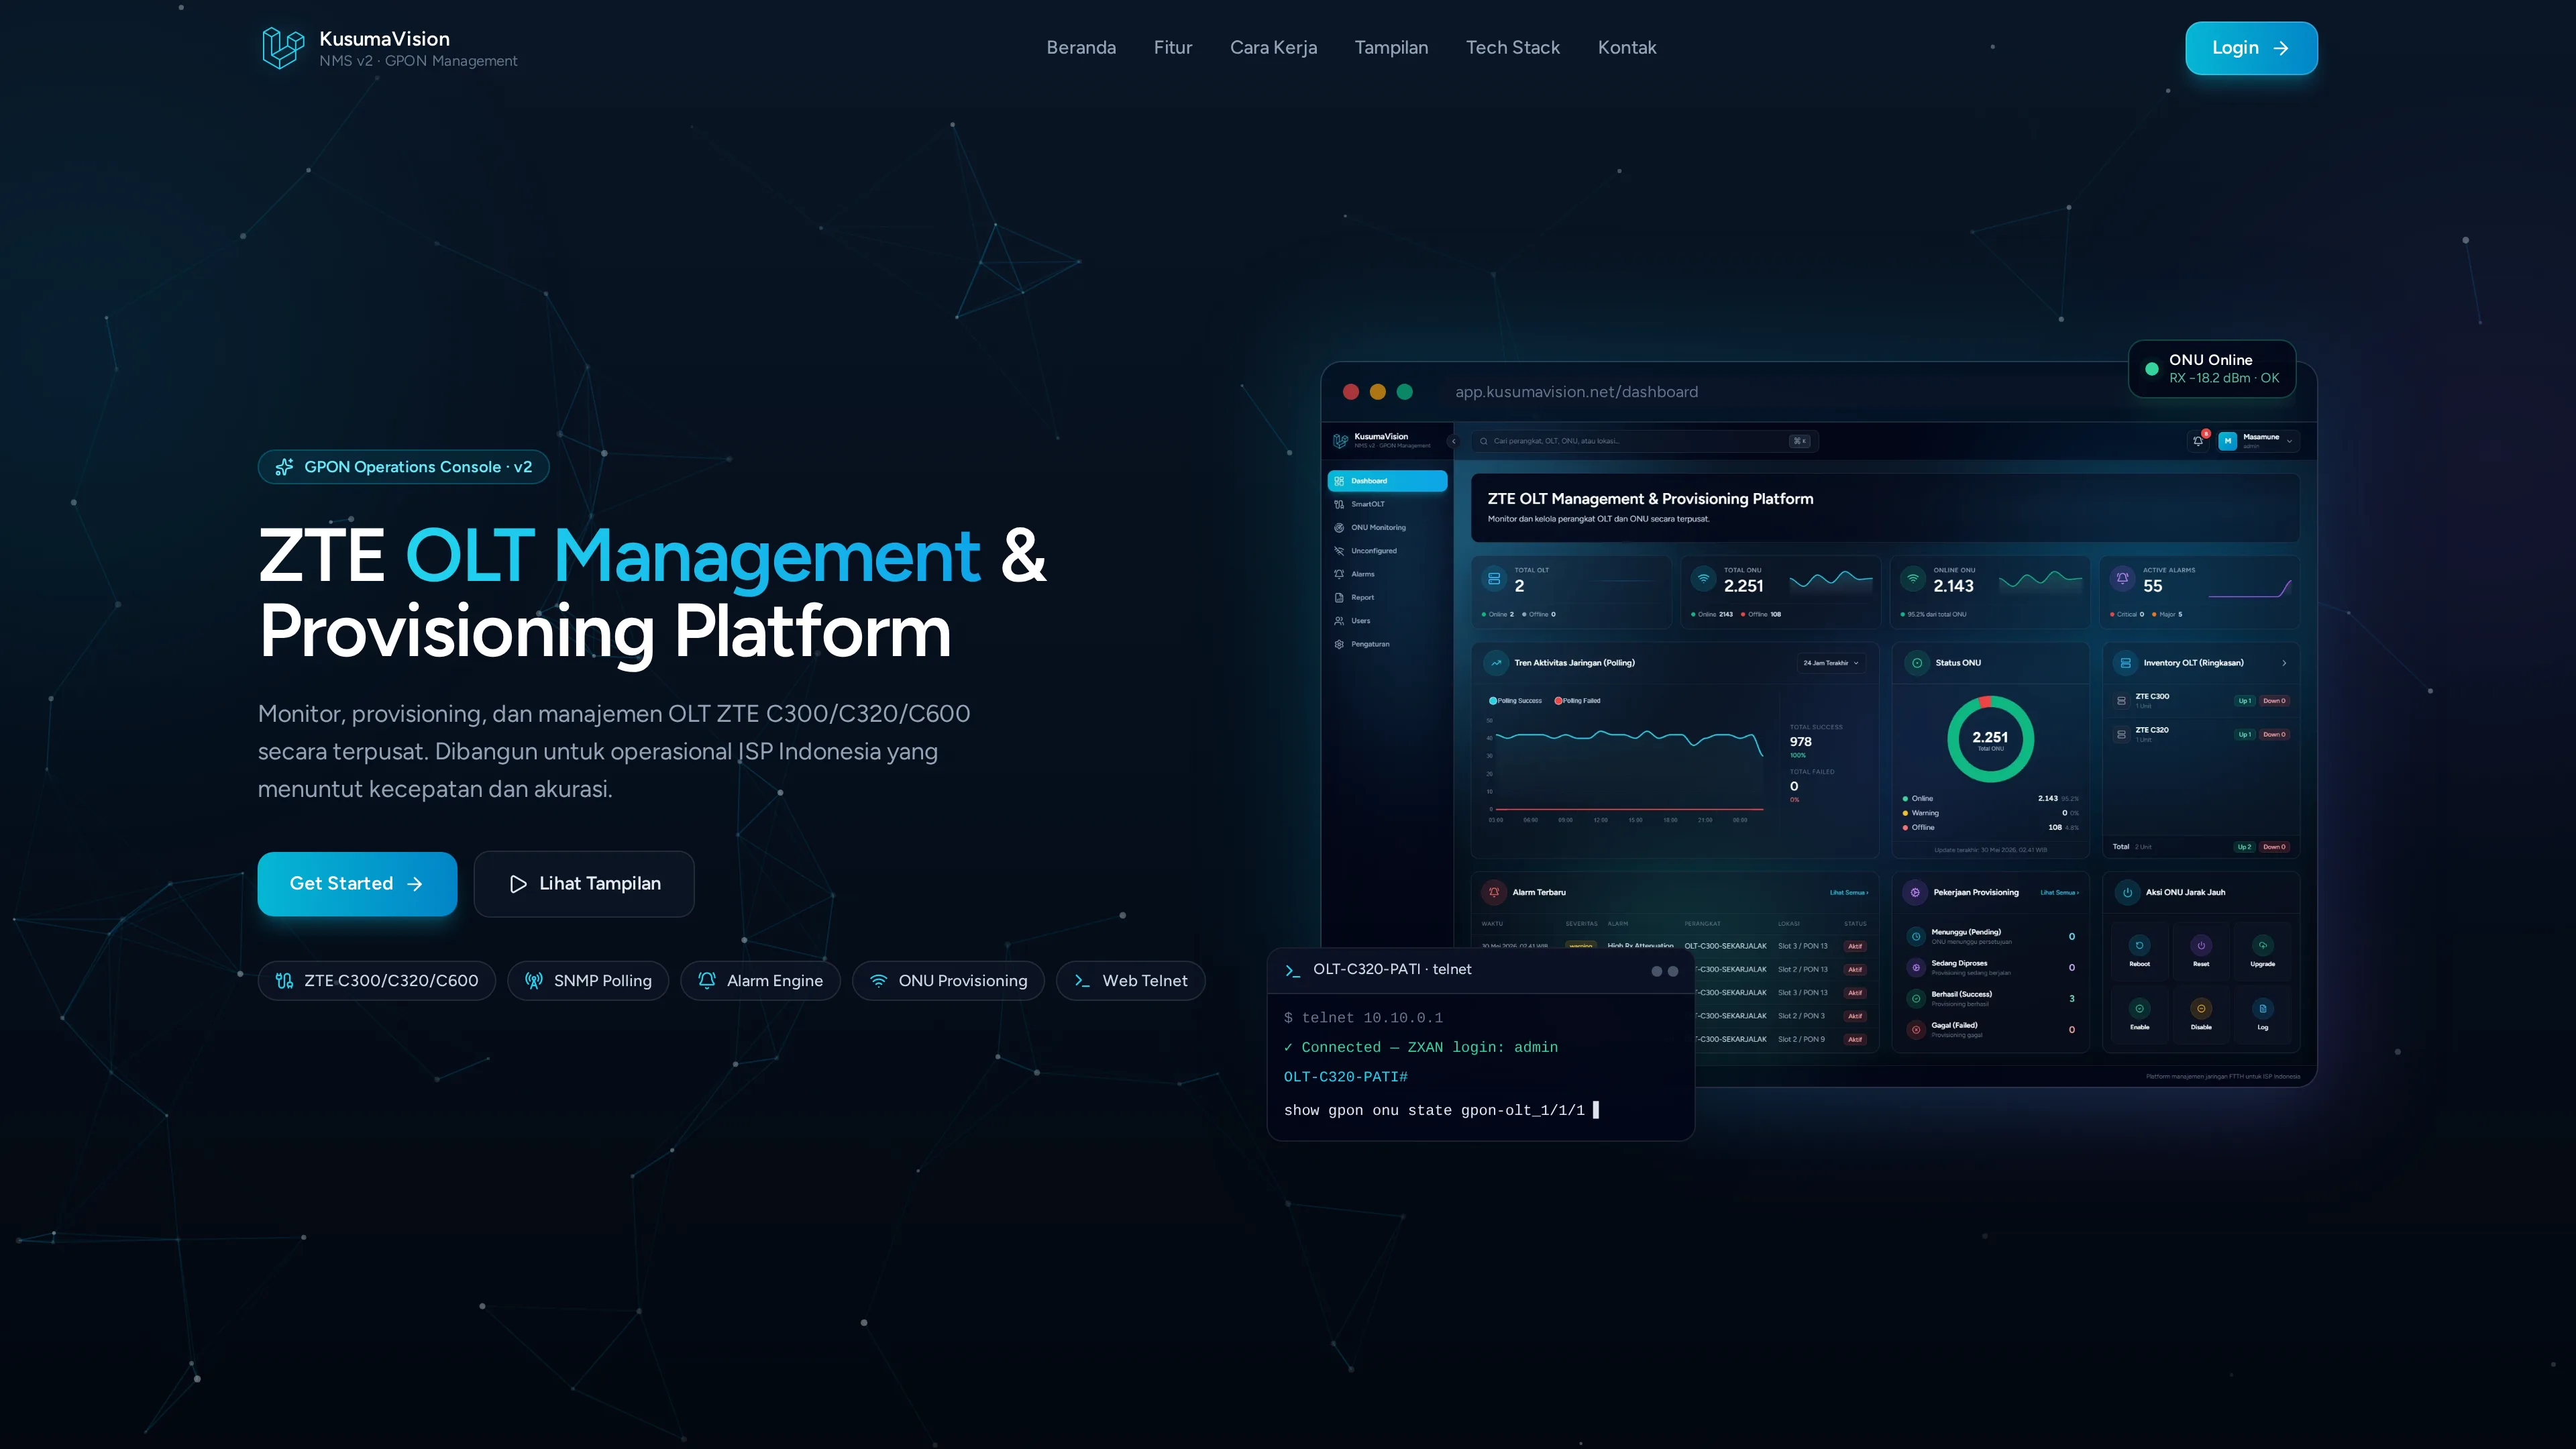
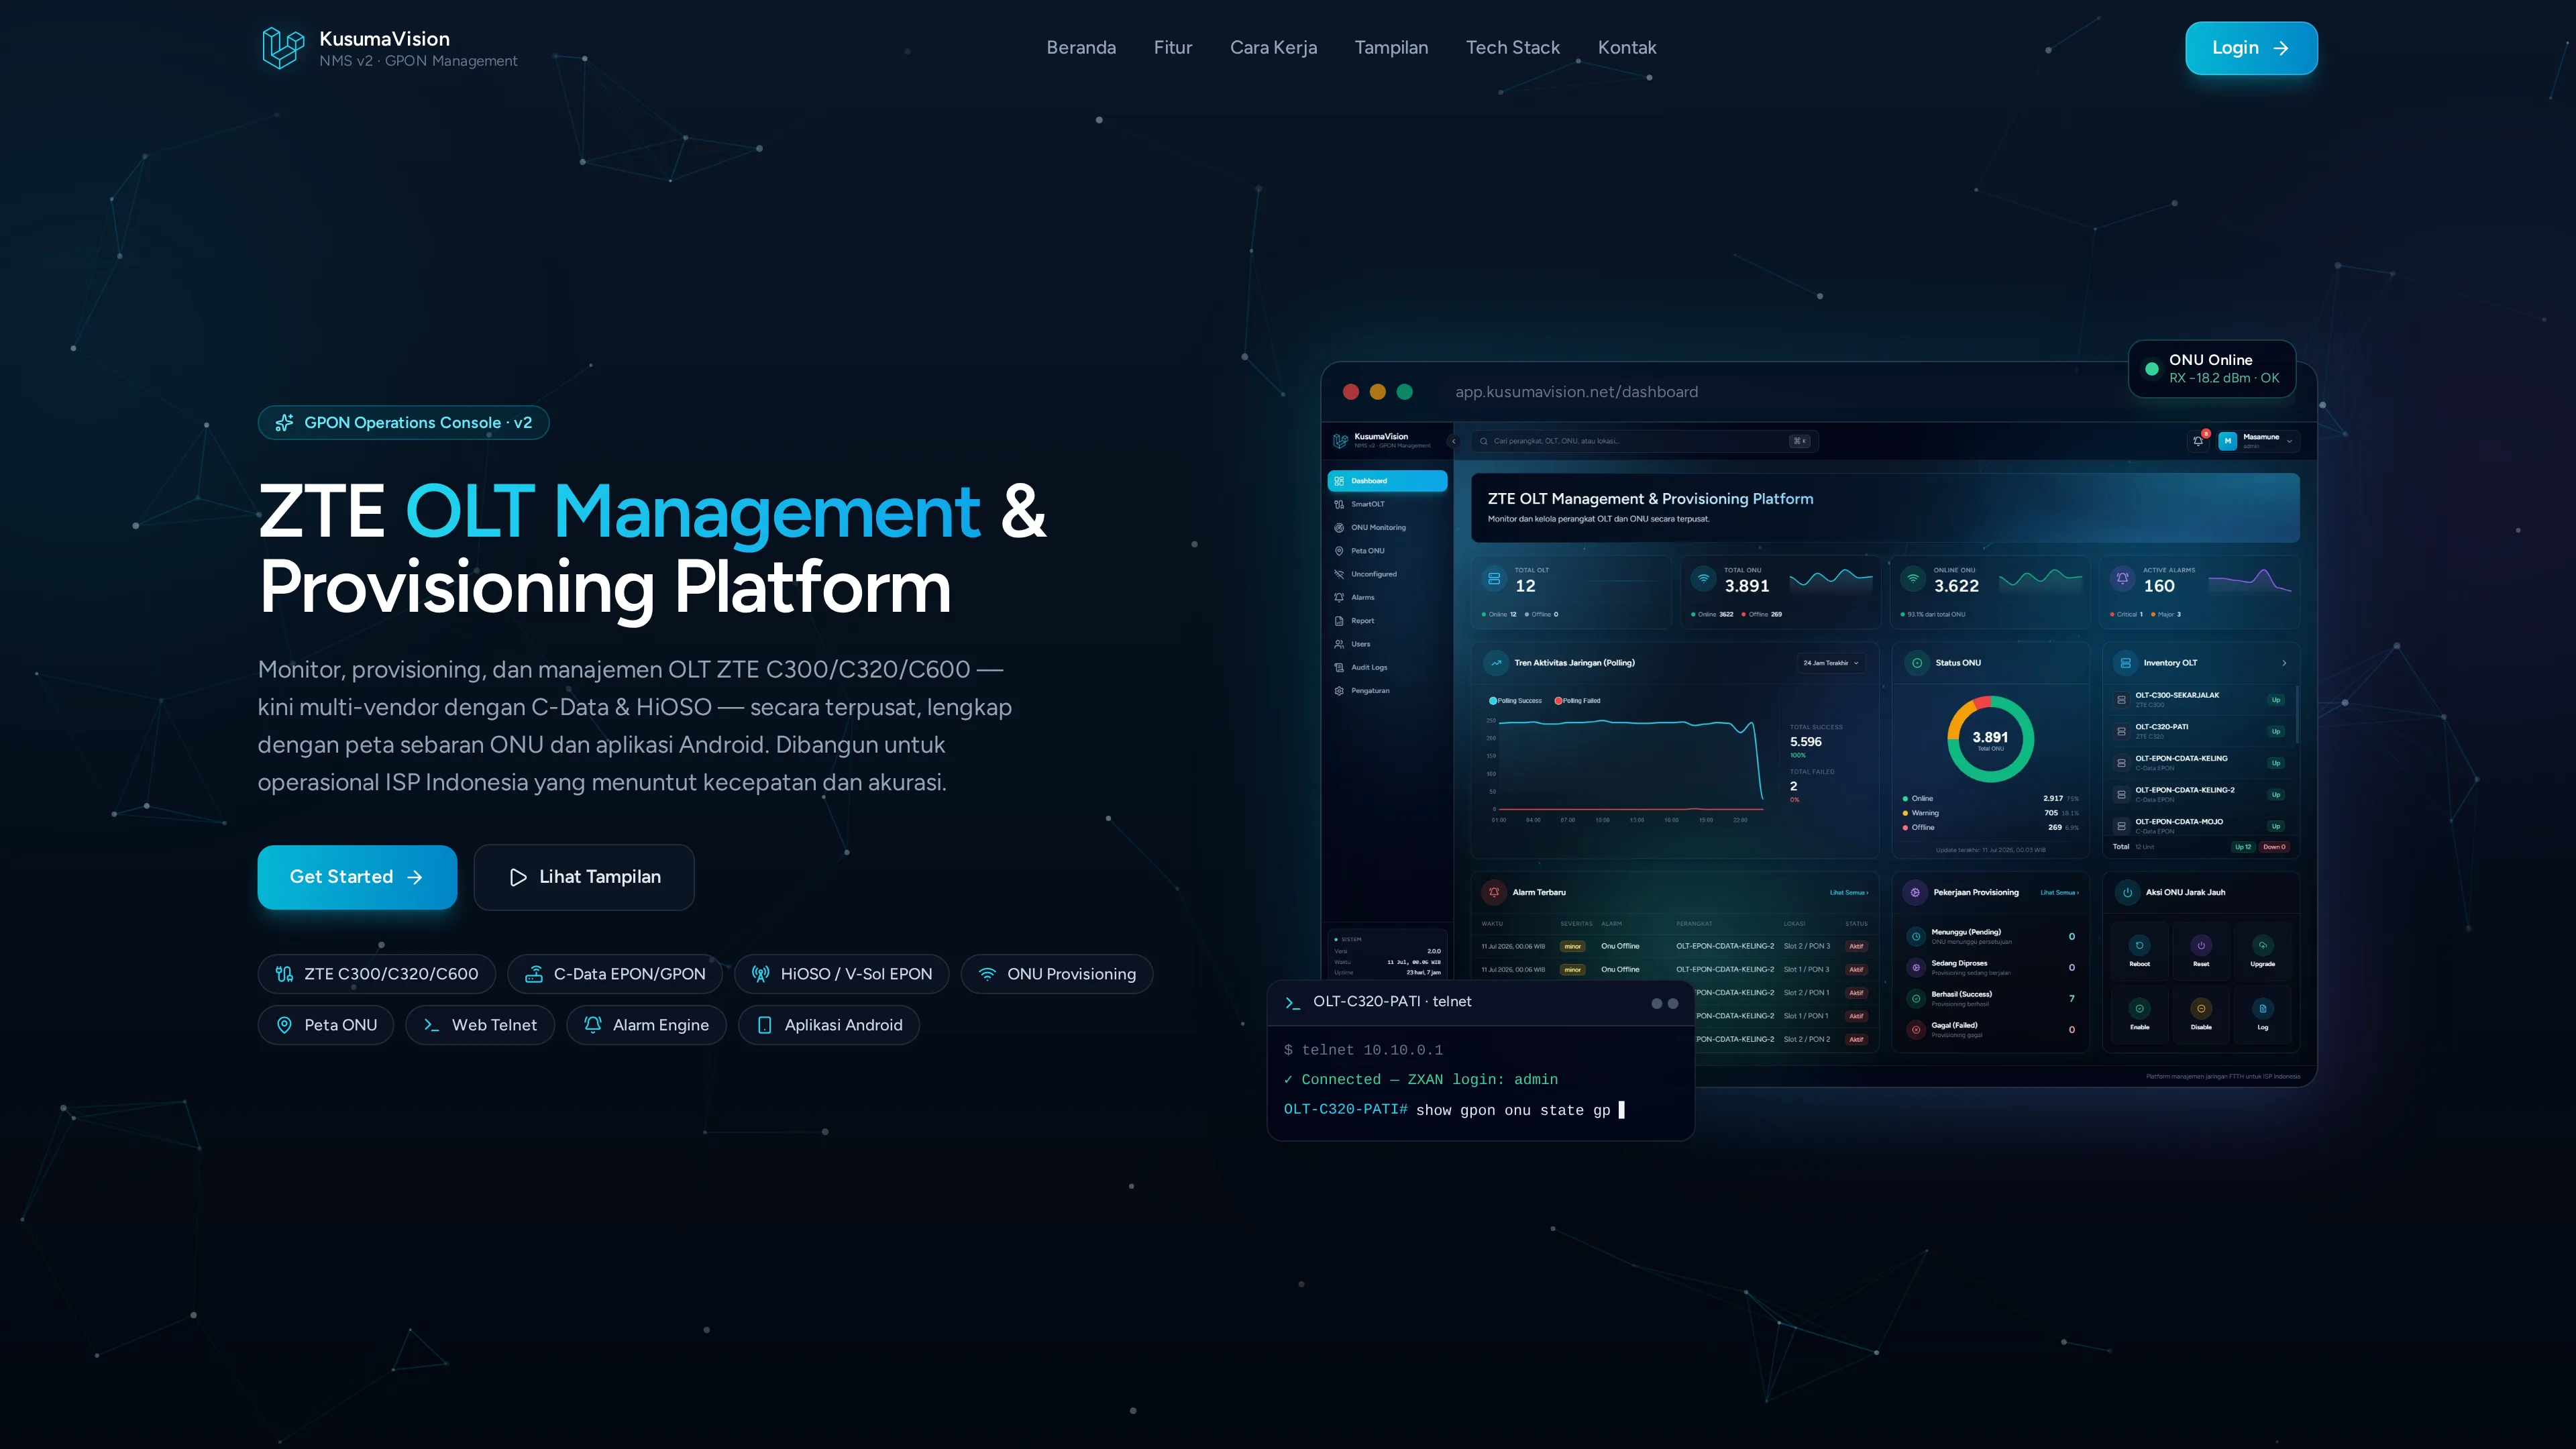
ui: refresh Welcome — new features, multi-vendor tech stack, Telegram group
Surface newer capabilities on the landing (multi-vendor OLT incl. HiOSO,
Peta ONU, Android app, TR-069 massal, push FCM) and add Tailwind + Flutter
logos to the tech strip. Replace the phone contact with the
KusumaVisionNMS-Share Telegram group (footer item + Hubungi Kami CTA).
Regenerate the stale welcome.webp screenshot and expand the README
screenshot gallery + Stack Teknologi table (Leaflet, Flutter, FCM).

diff --git a/resources/js/Pages/Welcome.vue b/resources/js/Pages/Welcome.vue
@@ -18,7 +18,6 @@ import {
     MapPin,
     Menu,
     MonitorPlay,
-    Phone,
     Play,
     Radar,
     RadioTower,
@@ -28,6 +27,7 @@ import {
     Send,
     Server,
     ShieldCheck,
+    Smartphone,
     Sparkles,
     Terminal,
     Wifi,
@@ -165,17 +165,19 @@ const navLinks = [
 const heroPills = [
     { icon: Cable, label: 'ZTE C300/C320/C600' },
     { icon: Router, label: 'C-Data EPON/GPON' },
-    { icon: RadioTower, label: 'SNMP Polling' },
-    { icon: BellRing, label: 'Alarm Engine' },
+    { icon: RadioTower, label: 'HiOSO / V-Sol EPON' },
     { icon: Wifi, label: 'ONU Provisioning' },
+    { icon: MapPin, label: 'Peta ONU' },
     { icon: Terminal, label: 'Web Telnet' },
+    { icon: BellRing, label: 'Alarm Engine' },
+    { icon: Smartphone, label: 'Aplikasi Android' },
 ];
 
 const stats = [
-    { value: 3, suffix: '', label: 'Seri OLT ZTE', sub: 'C300 · C320 · C600', icon: Cable, circle: 'kv-circle-sky' },
-    { value: 12, suffix: '+', label: 'Modul Operasional', sub: 'Monitoring → provisioning', icon: Boxes, circle: 'kv-circle-cyan' },
-    { value: 24, suffix: '/7', label: 'Monitoring Jaringan', sub: 'Alarm & Telegram realtime', icon: Activity, circle: 'kv-circle-emerald' },
-    { value: 100, suffix: '%', label: 'Berbasis Web', sub: 'Tanpa install aplikasi', icon: MonitorPlay, circle: 'kv-circle-purple' },
+    { value: 3, suffix: '', label: 'Vendor OLT Didukung', sub: 'ZTE · C-Data · HiOSO', icon: Router, circle: 'kv-circle-sky' },
+    { value: 14, suffix: '+', label: 'Modul Operasional', sub: 'Monitoring → provisioning', icon: Boxes, circle: 'kv-circle-cyan' },
+    { value: 24, suffix: '/7', label: 'Monitoring Jaringan', sub: 'Alarm · Telegram · Push FCM', icon: Activity, circle: 'kv-circle-emerald' },
+    { value: 100, suffix: '%', label: 'Web + Aplikasi Android', sub: 'Dashboard web & app mobile', icon: MonitorPlay, circle: 'kv-circle-purple' },
 ];
 const displayStats = ref(stats.map((s) => ({ ...s, current: 0 })));
 
@@ -211,8 +213,22 @@ const features = [
         icon: Router,
         accent: 'kv-circle-cyan',
         badge: 'Baru',
-        title: 'OLT C-Data EPON/GPON',
-        body: 'Dukungan multi-vendor: kelola OLT C-Data EPON & GPON berdampingan dengan ZTE — monitoring ONU lintas-OLT, plus rename & reboot ONU langsung dari dashboard.',
+        title: 'Multi-Vendor OLT',
+        body: 'Kelola OLT ZTE, C-Data (EPON & GPON), dan HiOSO / V-Sol EPON berdampingan dalam satu dashboard — monitoring ONU lintas-OLT, plus rename, reboot & delete ONU langsung dari dashboard.',
+    },
+    {
+        icon: MapPin,
+        accent: 'kv-circle-emerald',
+        badge: 'Baru',
+        title: 'Peta ONU',
+        body: 'Petakan sebaran pelanggan/ONU lintas OLT di peta interaktif — tambah pin dari klik peta atau link Google Maps, lengkap dengan reboot & rename ONU langsung dari titik pelanggan.',
+    },
+    {
+        icon: Smartphone,
+        accent: 'kv-circle-purple',
+        badge: 'Baru',
+        title: 'Aplikasi Android',
+        body: 'Aplikasi mobile Android untuk pantau OLT & ONU, registrasi, reboot/rename, sampai push notification alarm real-time via Firebase — NOC tetap terhubung dari mana saja.',
     },
     {
         icon: Database,
@@ -230,7 +246,7 @@ const features = [
         icon: Workflow,
         accent: 'kv-circle-purple',
         title: 'Provisioning ONU',
-        body: 'Generate CLI script provisioning ZTE (register, T-CONT, VLAN, PPPoE/DHCP/Static, TR-069) lalu eksekusi via Telnet.',
+        body: 'Generate CLI script provisioning ZTE (register, T-CONT, VLAN, PPPoE/DHCP/Static/Bridge, TR-069) lalu eksekusi via Telnet — plus TR-069 massal per-port & salin konfigurasi ONU antar port.',
     },
     {
         icon: Gauge,
@@ -271,8 +287,8 @@ const features = [
     {
         icon: Send,
         accent: 'kv-circle-cyan',
-        title: 'Notifikasi Telegram',
-        body: 'Alarm penting dikirim ke grup/chat Telegram, plus bot interaktif (menu tombol): cek status OLT & ONU, cari pelanggan, sampai refresh OLT C-Data dari mana saja.',
+        title: 'Notifikasi Telegram & Push',
+        body: 'Alarm penting dikirim ke grup/chat Telegram & push notification ke aplikasi Android, plus bot interaktif (menu tombol): cek status OLT & ONU, cari pelanggan, sampai refresh OLT dari mana saja.',
     },
     {
         icon: ScrollText,
@@ -283,8 +299,8 @@ const features = [
     {
         icon: ShieldCheck,
         accent: 'kv-circle-amber',
-        title: 'Role-based Access',
-        body: 'Pemisahan hak akses admin dan operator NOC — fitur sensitif seperti audit log & pengaturan sistem hanya untuk admin.',
+        title: 'Role-based & Multi-Tenant',
+        body: 'Pemisahan hak akses admin, operator NOC, dan partner — partner hanya melihat & mengelola OLT privat miliknya; fitur sensitif seperti audit log & pengaturan sistem tetap khusus admin.',
     },
 ];
 
@@ -298,14 +314,19 @@ const benefits = [
 
 // Kapabilitas untuk marquee berjalan (infinite scroll antar-section)
 const marqueeItems = [
-    'OLT C-Data EPON/GPON',
     'Multi-Vendor OLT',
+    'C-Data EPON/GPON',
+    'HiOSO / V-Sol EPON',
     'GPON Monitoring',
     'SNMP Polling',
     'ONU Provisioning',
+    'TR-069 Massal',
     'Alarm Engine',
     'Web Telnet',
     'RX Optical Power',
+    'Peta ONU',
+    'Aplikasi Android',
+    'Push Notification',
     'Remote ONU',
     'Telegram Alerts',
     'Audit Logs',
@@ -318,20 +339,24 @@ const techStack = [
     { name: 'Laravel 12', sub: 'PHP Framework', logo: '/img/tech/laravel.svg', glow: 'rgba(239, 68, 68, 0.25)' },
     { name: 'Vue 3', sub: 'Frontend SPA', logo: '/img/tech/vue.svg', glow: 'rgba(16, 185, 129, 0.25)' },
     { name: 'Inertia.js', sub: 'SPA Bridge', logo: '/img/tech/inertia.svg', glow: 'rgba(168, 85, 247, 0.25)' },
+    { name: 'Tailwind CSS', sub: 'UI Styling', logo: '/img/tech/tailwind.svg', glow: 'rgba(56, 189, 248, 0.25)' },
     { name: 'PostgreSQL', sub: 'Database', logo: '/img/tech/postgresql.svg', glow: 'rgba(110, 168, 249, 0.25)' },
     { name: 'Redis', sub: 'Cache & Queue', logo: '/img/tech/redis.svg', glow: 'rgba(239, 68, 68, 0.25)' },
     { name: 'Golang', sub: 'Polling Engine', logo: '/img/tech/go.svg', glow: 'rgba(34, 211, 238, 0.25)' },
+    { name: 'Flutter', sub: 'Aplikasi Android', logo: '/img/tech/flutter.svg', glow: 'rgba(71, 197, 251, 0.25)' },
 ];
 
 const modules = [
     { icon: LayoutDashboard, title: 'Dashboard', sub: 'Tampilan ringkas seluruh jaringan FTTH' },
     { icon: Server, title: 'OLT Inventory', sub: 'Detail perangkat & kartu line card' },
-    { icon: Router, title: 'OLT C-Data', sub: 'Monitoring EPON/GPON non-ZTE' },
+    { icon: Router, title: 'OLT C-Data & HiOSO', sub: 'Monitoring EPON/GPON non-ZTE' },
     { icon: BellRing, title: 'Alarm Center', sub: 'Pusat notifikasi & histori alarm' },
     { icon: Workflow, title: 'Provisioning', sub: 'Wizard registrasi ONU otomatis' },
     { icon: Radar, title: 'ONU Monitoring', sub: 'Pantau ONU lintas OLT & port' },
+    { icon: MapPin, title: 'Peta ONU', sub: 'Sebaran pelanggan di peta interaktif' },
     { icon: Terminal, title: 'Telnet Console', sub: 'CLI OLT langsung dari browser' },
     { icon: Database, title: 'Profiles', sub: 'Manajemen ONU type, T-CONT, VLAN' },
+    { icon: Smartphone, title: 'Aplikasi Android', sub: 'Pantau & kelola dari ponsel + push FCM' },
     { icon: FileBarChart, title: 'Reports', sub: 'Laporan statistik dan utilisasi' },
 ];
 
@@ -738,7 +763,7 @@ onBeforeUnmount(() => {
                             ZTE <span class="bg-gradient-to-r from-cyan-400 to-sky-500 bg-clip-text text-transparent">OLT Management</span> &amp; Provisioning Platform
                         </h1>
                         <p class="reveal-hero mt-5 max-w-xl text-base leading-7 text-slate-400 sm:text-lg" style="animation-delay: 0.19s">
-                            Monitor, provisioning, dan manajemen OLT ZTE C300/C320/C600 secara terpusat. Dibangun untuk operasional ISP Indonesia yang menuntut kecepatan dan akurasi.
+                            Monitor, provisioning, dan manajemen OLT ZTE C300/C320/C600 — kini multi-vendor dengan C-Data & HiOSO — secara terpusat, lengkap dengan peta sebaran ONU dan aplikasi Android. Dibangun untuk operasional ISP Indonesia yang menuntut kecepatan dan akurasi.
                         </p>
 
                         <!-- Hero CTAs -->
@@ -888,9 +913,9 @@ onBeforeUnmount(() => {
                         <div class="grid items-center gap-8 p-6 md:grid-cols-[1fr_auto] md:gap-12 md:p-10">
                             <div>
                                 <p class="text-xs font-semibold uppercase tracking-widest text-cyan-400">Multi-Vendor Hardware</p>
-                                <h2 class="mt-2 text-2xl font-bold text-white sm:text-3xl">ZTE C-series + C-Data EPON/GPON</h2>
+                                <h2 class="mt-2 text-2xl font-bold text-white sm:text-3xl">ZTE C-series + C-Data + HiOSO</h2>
                                 <p class="mt-3 max-w-xl text-sm text-slate-400">
-                                    Driver SNMP & CLI matang untuk ZTE C300, C320, dan C600 — kini diperluas ke OLT C-Data EPON (17409) & GPON (34592). Battle-tested di OLT produksi ISP Indonesia.
+                                    Driver SNMP & CLI matang untuk ZTE C300, C320, dan C600 — kini diperluas ke OLT C-Data EPON (17409) & GPON (34592) serta HiOSO / V-Sol EPON (25355). Battle-tested di OLT produksi ISP Indonesia.
                                 </p>
                                 <div class="mt-5 flex flex-wrap gap-2">
                                     <span class="kv-pill-info">ZTE C300</span>
@@ -898,6 +923,7 @@ onBeforeUnmount(() => {
                                     <span class="kv-pill-info">ZTE C600</span>
                                     <span class="kv-pill-info">C-Data EPON</span>
                                     <span class="kv-pill-info">C-Data GPON</span>
+                                    <span class="kv-pill-info">HiOSO / V-Sol</span>
                                 </div>
                             </div>
                             <img
@@ -1108,7 +1134,7 @@ onBeforeUnmount(() => {
                         <h2 class="mt-3 text-3xl font-bold text-white sm:text-4xl">Dibangun dengan Teknologi Modern & Andal</h2>
                     </div>
 
-                    <div class="mt-10 grid gap-5 sm:grid-cols-2 md:grid-cols-3 lg:grid-cols-6">
+                    <div class="mt-10 grid gap-5 sm:grid-cols-2 md:grid-cols-4 lg:grid-cols-4">
                         <div
                             v-for="(t, i) in techStack"
                             :key="t.name"
@@ -1190,11 +1216,12 @@ onBeforeUnmount(() => {
                                 <ArrowRight class="h-4 w-4" />
                             </Link>
                             <a
-                                href="#kontak"
+                                href="https://t.me/+RMTs-9c028g0MDdl"
+                                target="_blank"
+                                rel="noopener noreferrer"
                                 class="inline-flex items-center gap-2 rounded-xl border border-white/15 bg-slate-900/60 px-6 py-3.5 text-sm font-semibold text-slate-100 backdrop-blur transition hover:border-white/25 hover:bg-slate-800/80"
-                                @click="scrollToHash($event, '#kontak')"
                             >
-                                <Phone class="h-4 w-4" />
+                                <Send class="h-4 w-4" />
                                 Hubungi Kami
                             </a>
                         </div>
@@ -1250,8 +1277,13 @@ onBeforeUnmount(() => {
                                 <a href="mailto:[email redacted]" class="hover:text-cyan-400">[email redacted]</a>
                             </li>
                             <li class="flex items-start gap-2">
-                                <Phone class="mt-0.5 h-4 w-4 flex-shrink-0 text-cyan-400" />
-                                <span>[phone redacted]</span>
+                                <Send class="mt-0.5 h-4 w-4 flex-shrink-0 text-cyan-400" />
+                                <a
+                                    href="https://t.me/+RMTs-9c028g0MDdl"
+                                    target="_blank"
+                                    rel="noopener noreferrer"
+                                    class="hover:text-cyan-400"
+                                >Grup Telegram · KusumaVisionNMS-Share</a>
                             </li>
                             <li class="flex items-start gap-2">
                                 <svg

diff --git a/README.md b/README.md
@@ -13,7 +13,7 @@ Bisa dipasang di server Ubuntu (satu perintah `install.sh`) **atau** sebagai **a
 
 ## Tampilan Aplikasi
 
-> UI dark-glass bertema cyan/sky — landing, dashboard terpusat, manajemen OLT, dan provisioning ONU.
+> UI dark-glass bertema cyan/sky — landing, dashboard terpusat, manajemen OLT multi-vendor (ZTE / C-Data / HiOSO), provisioning ONU, peta sebaran pelanggan, dan aplikasi Android.
 
 ![Landing KusumaVision NMS](public/img/welcome.webp)
 
@@ -26,6 +26,18 @@ Bisa dipasang di server Ubuntu (satu perintah `install.sh`) **atau** sebagai **a
 | Detail OLT (system info & status card) | Discovery ONU unconfigured |
 |---|---|
 | ![Detail OLT](public/img/detail.webp) | ![Discovery ONU unconfigured](public/img/unconfigured.webp) |
+
+| ONU Monitoring (lintas OLT) | Detail Port PON |
+|---|---|
+| ![ONU Monitoring lintas OLT](public/img/onumonitoring.webp) | ![Detail port PON](public/img/portdetail.webp) |
+
+| Peta ONU (sebaran pelanggan) | Alarm Center |
+|---|---|
+| ![Peta ONU](public/img/map.webp) | ![Alarm center](public/img/alarms.webp) |
+
+| ONU per Port PON | Report & Analytics |
+|---|---|
+| ![ONU per port PON](public/img/portonus.webp) | ![Report jaringan](public/img/reports.webp) |
 
 ---
 
@@ -74,15 +86,16 @@ Bisa dipasang di server Ubuntu (satu perintah `install.sh`) **atau** sebagai **a
 | Lapisan | Teknologi |
 |---|---|
 | Backend | Laravel 12 (PHP 8.3), Inertia.js |
-| Frontend | Vue 3 + Inertia, TailwindCSS, ApexCharts, xterm.js (terminal) |
+| Frontend | Vue 3 + Inertia, TailwindCSS, ApexCharts, Leaflet (peta ONU), xterm.js (terminal) |
+| Aplikasi Mobile | Flutter 3 (Dart) + Riverpod, dio, go_router — Android (push FCM) |
 | Database | PostgreSQL |
 | Cache / Queue / Session | Redis |
 | Web Server | Nginx + PHP-FPM 8.3 |
 | Akses OLT | SNMP v1/v2c (read & write), CLI Telnet, telnet interaktif via browser (proxy WebSocket↔Telnet) |
 | SNMP Poller (opsional) | Go 1.18+ — binary `bin/kv-snmp-poller` |
-| Notifikasi | Telegram Bot API (notifikasi alarm + bot perintah read-only) |
+| Notifikasi | Telegram Bot API (notifikasi alarm + bot perintah read-only) + Firebase Cloud Messaging (push ke aplikasi Android) |
 | Export laporan | CSV, PDF (`barryvdh/laravel-dompdf`) |
-| REST API | JSON v1 read-only, Bearer token (personal access token), rate-limited — opsional |
+| REST API | JSON v1 (baca + tulis, terautentikasi), Bearer token (personal access token), rate-limited — opsional |
 | Deploy | `install.sh` (server Ubuntu) atau **Docker appliance** (Windows/Linux/macOS, all-in-one) |
 
 ---
@@ -553,6 +566,15 @@ Ringkasan konfigurasi production lokal yang direkomendasikan:
 - [`docs/LOCAL_PRODUCTION_HARDENING.md`](docs/LOCAL_PRODUCTION_HARDENING.md) — hardening produksi (nginx/UFW/SSH/PHP-FPM).
 - [`docs/DEMO_DEPLOYMENT.md`](docs/DEMO_DEPLOYMENT.md) — penyiapan data & mode demo.
 - [`WORKLOG.md`](WORKLOG.md) — riwayat pekerjaan fase per fase.
+
+---
+
+## Komunitas & Dukungan
+
+Punya pertanyaan, laporan bug, atau ingin berdiskusi & berbagi seputar KusumaVision NMS?
+Gabung ke grup Telegram komunitas:
+
+> 💬 **[Grup Telegram — KusumaVisionNMS-Share](https://t.me/+RMTs-9c028g0MDdl)**
 
 ---
 

diff --git a/WORKLOG.md b/WORKLOG.md
@@ -2,6 +2,26 @@
 
 ## 2026-07-10
 
+### Welcome: refresh copy + tambah fitur baru + ganti kontak ke grup Telegram
+
+**Permintaan user:** update halaman Welcome dengan fitur-fitur baru bila ada + perbarui copy-nya; hapus nomor HP dan ganti dengan link grup Telegram `KusumaVisionNMS-Share` (`https://t.me/+RMTs-9c028g0MDdl`); tombol "Hubungi Kami" diarahkan ke grup Telegram.
+
+Changed (`resources/js/Pages/Welcome.vue`):
+- **Fitur baru diangkat** (sebelumnya belum tampil): kartu **Multi-Vendor OLT** (ZTE + C-Data + HiOSO/V-Sol, gantikan kartu "OLT C-Data"), **Peta ONU**, **Aplikasi Android** (push FCM Firebase) — ketiganya badge "Baru". Kartu Provisioning kini sebut TR-069 massal & salin-ONU antar port; kartu notifikasi jadi "Telegram & Push"; Role-based jadi "Role-based & Multi-Tenant" (partner OLT privat).
+- **Copy diperbarui**: paragraf hero sebut multi-vendor (C-Data & HiOSO) + peta ONU + app Android; hero pills, marquee, modul, dan hardware showcase ditambah HiOSO/V-Sol, Peta ONU, Aplikasi Android, Push Notification, TR-069 Massal. Stats band: "Seri OLT ZTE"→"Vendor OLT Didukung (ZTE·C-Data·HiOSO)", "Berbasis Web"→"Web + Aplikasi Android", modul 12+→14+.
+- **Kontak**: hapus nomor HP `+62 858-…` di footer, ganti item **Grup Telegram · KusumaVisionNMS-Share** (link `t.me/+RMTs-9c028g0MDdl`, ikon Send). Tombol **Hubungi Kami** (final CTA) kini buka grup Telegram di tab baru (bukan lagi anchor `#kontak`). Import `Phone` dihapus (tak terpakai), tambah `Smartphone`.
+
+Changed (`README.md` + gambar):
+- **Screenshot landing basi diregenerasi** — `public/img/welcome.webp` (sebelumnya Jun 1, desain landing lama) di-capture ulang via skill `snapshot` (`ONLY=welcome npm run snapshot`) → kini menampilkan Welcome hasil rombak (hero pills & copy multi-vendor baru).
+- **Galeri "Tampilan Aplikasi" diperluas** pakai screenshot fresh (Jul 10): tambah baris ONU Monitoring + Detail Port PON, Peta ONU + Alarm Center, ONU per Port + Report. Sub-judul disebut multi-vendor + peta + Android.
+- **Section baru "Komunitas & Dukungan"** dengan link **Grup Telegram — KusumaVisionNMS-Share** (`t.me/+RMTs-9c028g0MDdl`).
+
+Changed (Tech Stack — Welcome + README):
+- **Welcome techStack** dari 6 → 8 logo: tambah **Tailwind CSS** & **Flutter (Aplikasi Android)**; grid `lg:grid-cols-6` → `md/lg:grid-cols-4` (rapi 2×4). Logo baru `public/img/tech/tailwind.svg` + `flutter.svg` (gaya monokrom Simple Icons seperti set lama; terverifikasi render via Chromium).
+- **README tabel Stack Teknologi**: Frontend +Leaflet (peta ONU); baris baru **Aplikasi Mobile — Flutter 3 (Dart) + Riverpod/dio/go_router (Android, push FCM)**; Notifikasi +Firebase Cloud Messaging; baris REST API dikoreksi dari "read-only" → "baca + tulis, terautentikasi" (sesuai state API v1 sekarang).
+
+Notes: `npx vite build` sukses tanpa error (chunk `Welcome-*.js` ter-emit; warning ukuran chunk pra-ada). Screenshot: app live `https://127.0.0.1` (200), Playwright+cwebp tersedia. Tidak menyentuh backend/route. Deploy: cukup rebuild aset FE (`npm run build`) — tak perlu restart daemon.
+
 ### Security review nms.kusumavision.net: fix injeksi CLI + patch CVE dependency + hardening
 
 **Permintaan user:** minta di-pentest/di-tes keamanan web-nya sendiri ("andai kamu hacker, apa yang kamu lakukan"). Karena punya source, dilakukan audit kode attack-surface langsung, lalu kerjakan semua remediasi.